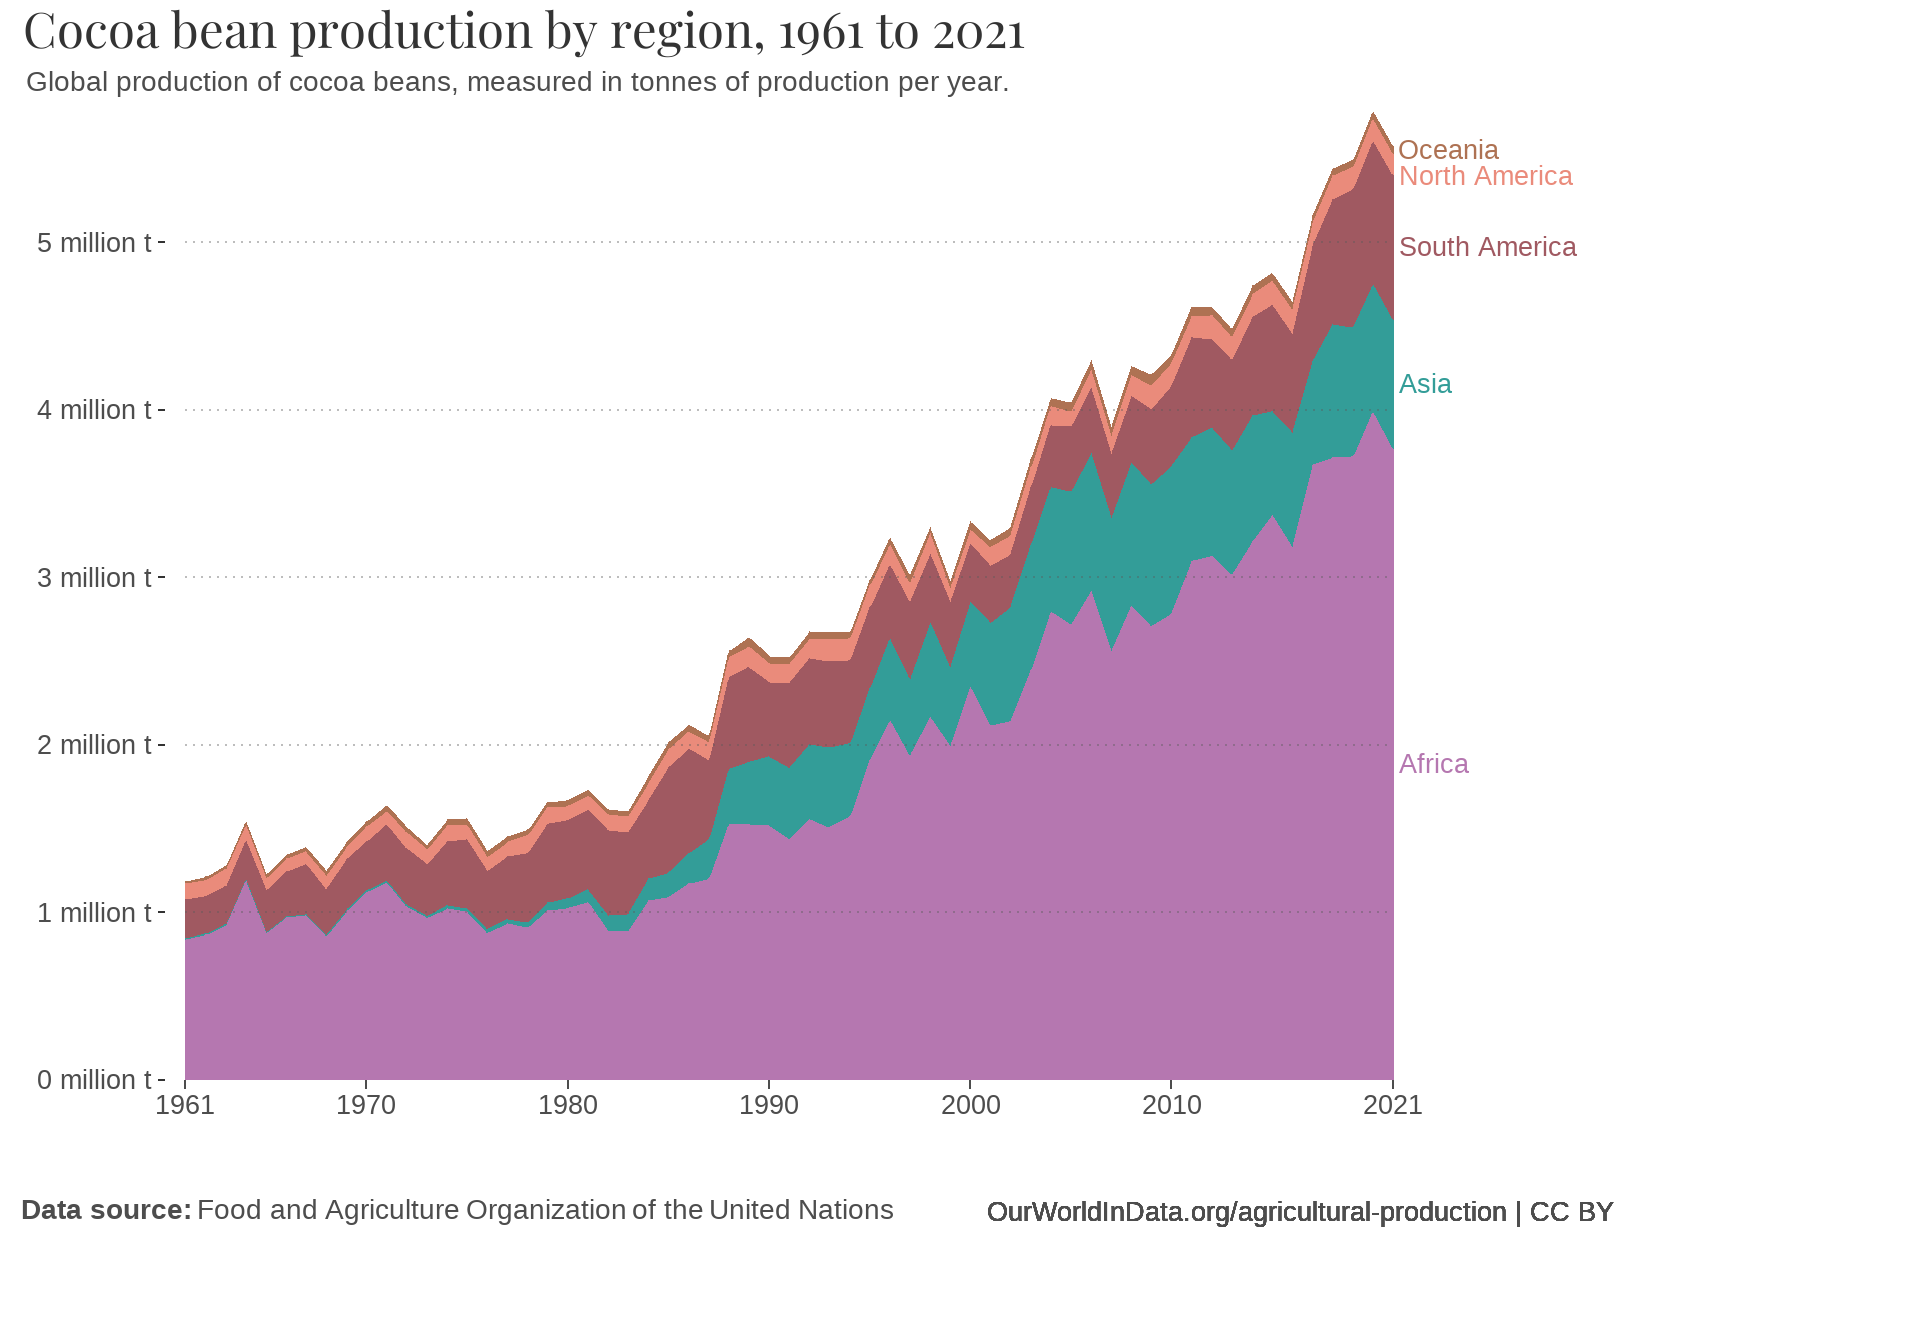
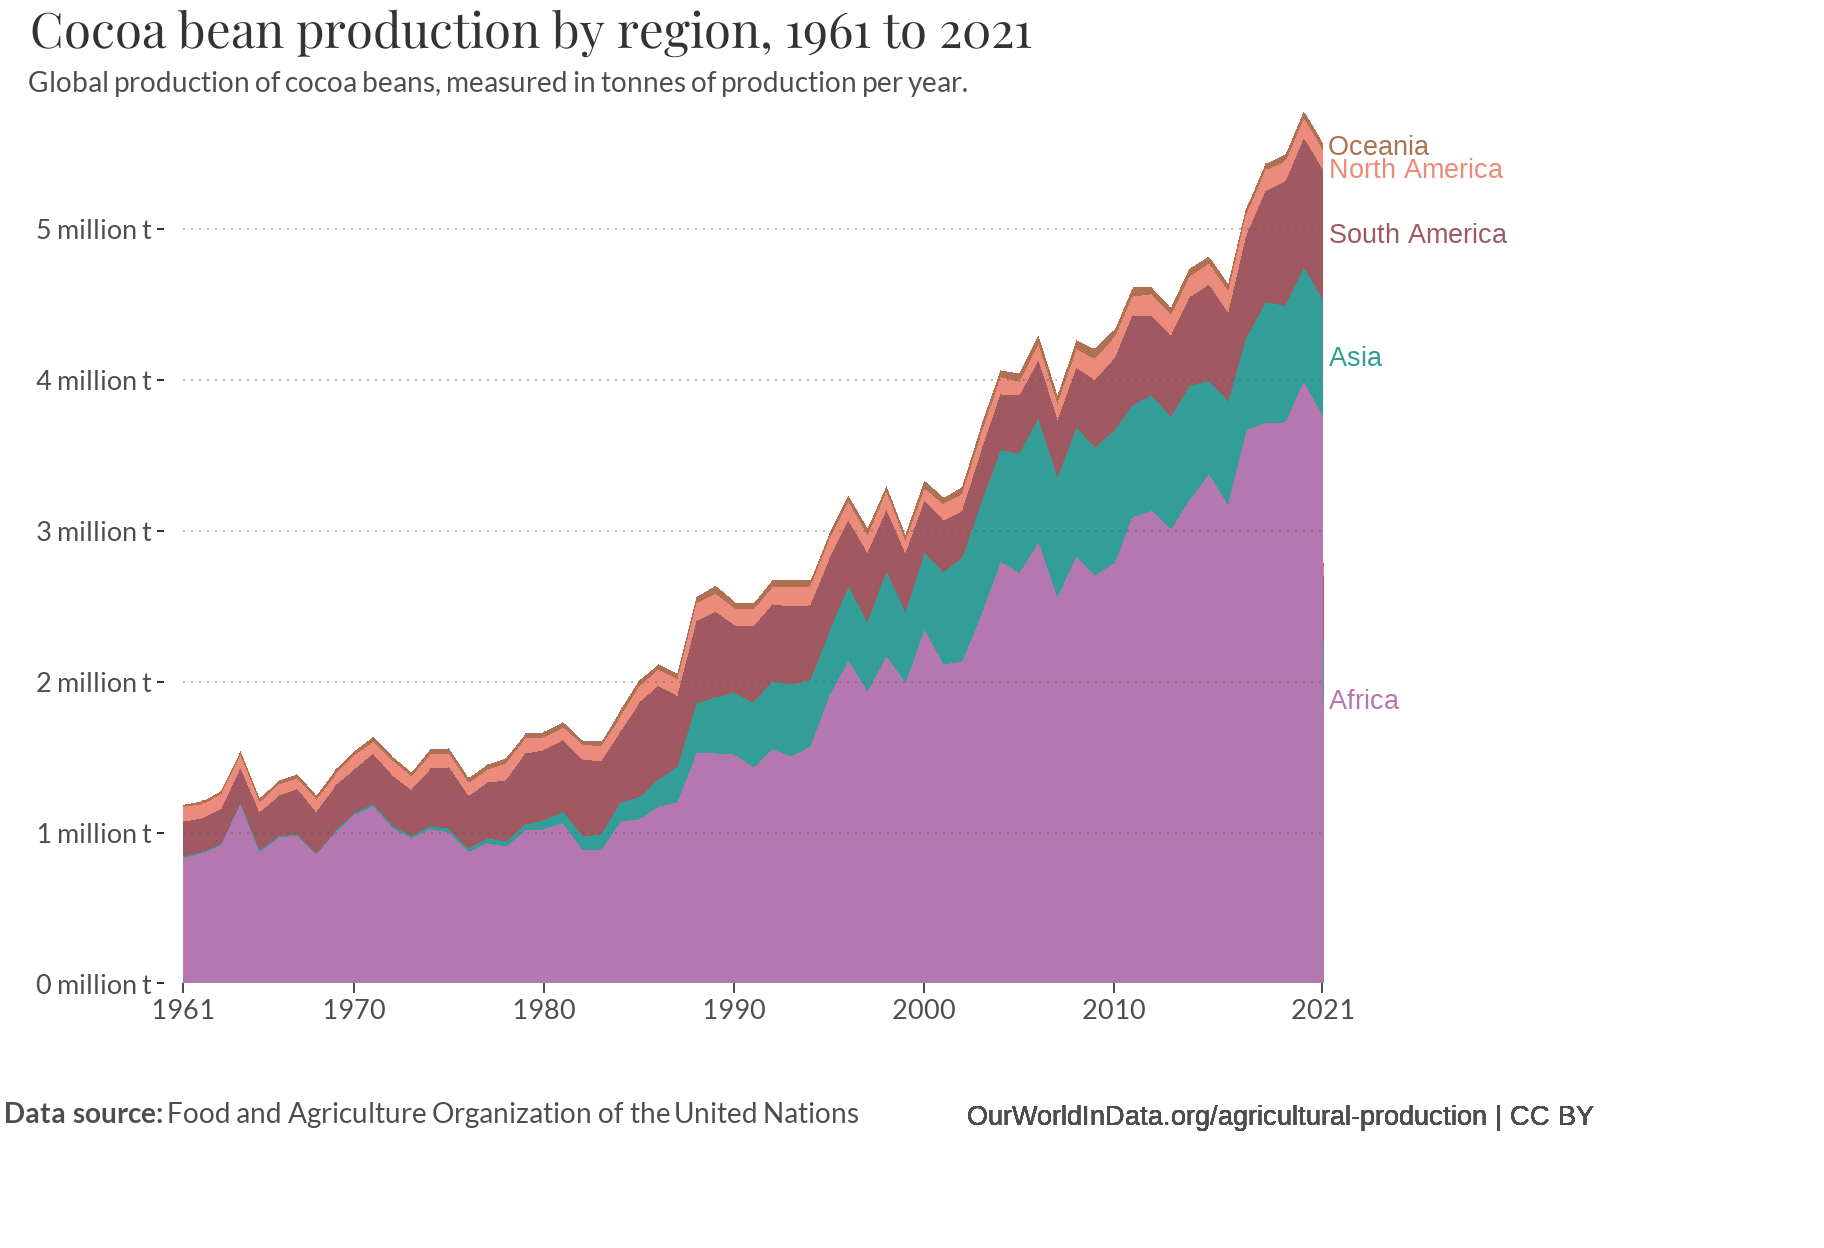
0.049

diff --git a/docs/area.html b/docs/area.html
@@ -448,7 +448,10 @@ pre > code.sourceCode > span > a:first-child::before { text-decoration: underlin
 
 
 </header><p>The chart we are set to reproduce, originally obtained from <a href="https://ourworldindata.org/">Our World in Data</a>, stands as a prime example of an area plot. Specifically focusing on <a href="https://ourworldindata.org/grapher/cocoa-beans-production-by-region">“Cocoa Bean Production by Region, 1961 to 2021,”</a> this visualization offers a thorough and comprehensive insight into the evolving trends of cocoa bean production across various regions spanning the last six decades. Through the use of the area plot format, the chart effectively captures the fluctuations and distribution of cocoa production over time, allowing viewers to discern patterns and variations in different geographical areas.</p>
-<p><a href="https://ourworldindata.org/grapher/cocoa-beans-production-by-region"><img src="img/cocoa-beans-production-by-region.png" class="img-fluid"></a></p>
+<div class="quarto-figure quarto-figure-center">
+<figure class="figure"><p><a href="https://ourworldindata.org/grapher/cocoa-beans-production-by-region"><img src="img/cocoa-beans-production-by-region.png" class="img-fluid figure-img" alt="The original graph obtained from Our World in Data"></a></p>
+<figcaption>The original graph obtained from Our World in Data</figcaption></figure>
+</div>
 <section id="story-cocoa-bean-production-by-region" class="level2"><h2 class="anchored" data-anchor-id="story-cocoa-bean-production-by-region">STORY: Cocoa bean production by region</h2>
 <p>We requested information for “Cocoa bean production by region: Africa, Asia, South America, North America, and Oceania” from ChatGTP.</p>
 <div id="exercise-joins" class="callout callout-style-default callout-important no-icon callout-titled">
@@ -519,6 +522,7 @@ pre > code.sourceCode > span > a:first-child::before { text-decoration: underlin
 <span><span class="co"># custom fonts</span></span>
 <span><span class="kw"><a href="https://rdrr.io/r/base/library.html">library</a></span><span class="op">(</span><span class="va"><a href="https://github.com/yixuan/showtext">showtext</a></span><span class="op">)</span></span>
 <span><span class="fu"><a href="https://rdrr.io/pkg/sysfonts/man/font_add_google.html">font_add_google</a></span><span class="op">(</span><span class="st">"Playfair Display"</span>, regular.wt <span class="op">=</span> <span class="fl">400</span><span class="op">)</span></span>
+<span><span class="fu"><a href="https://rdrr.io/pkg/sysfonts/man/font_add_google.html">font_add_google</a></span><span class="op">(</span><span class="st">"Lato"</span>, regular.wt <span class="op">=</span> <span class="fl">400</span><span class="op">)</span></span>
 <span><span class="fu"><a href="https://rdrr.io/pkg/showtext/man/showtext_auto.html">showtext_auto</a></span><span class="op">(</span><span class="op">)</span></span></code><button title="Copy to Clipboard" class="code-copy-button"><i class="bi"></i></button></pre></div>
 </div>
 <p><strong>DATA SOURCE:</strong> Food and Agriculture Organization of the United Nations (2023) – processed by Our World in Data (<strong>NOTE:</strong> We filtered the dataset, keeping the following world regions (entities): Africa, Asia, South America, North America, and Oceania).</p>
@@ -623,20 +627,21 @@ pre > code.sourceCode > span > a:first-child::before { text-decoration: underlin
 <span>       caption <span class="op">=</span> <span class="st">"**Data source:** Food and Agriculture Organization of the United Nations"</span>, </span>
 <span>       x <span class="op">=</span> <span class="st">"Year"</span>,</span>
 <span>       y <span class="op">=</span> <span class="st">"Cocoa Beans"</span><span class="op">)</span> <span class="op">+</span></span>
-<span>  <span class="fu"><a href="https://ggplot2.tidyverse.org/reference/theme.html">theme</a></span><span class="op">(</span>plot.margin <span class="op">=</span> <span class="fu"><a href="https://ggplot2.tidyverse.org/reference/element.html">margin</a></span><span class="op">(</span><span class="fl">5</span>, <span class="fl">115</span>, <span class="fl">45</span>, <span class="fl">15</span><span class="op">)</span>,</span>
+<span>  <span class="fu"><a href="https://ggplot2.tidyverse.org/reference/theme.html">theme</a></span><span class="op">(</span>plot.margin <span class="op">=</span> <span class="fu"><a href="https://ggplot2.tidyverse.org/reference/element.html">margin</a></span><span class="op">(</span><span class="fl">5</span>, <span class="fl">110</span>, <span class="fl">45</span>, <span class="fl">14</span><span class="op">)</span>,</span>
+<span>        text<span class="op">=</span><span class="fu"><a href="https://ggplot2.tidyverse.org/reference/element.html">element_text</a></span><span class="op">(</span>family<span class="op">=</span><span class="st">"Lato"</span><span class="op">)</span>,</span>
 <span>        panel.background <span class="op">=</span> <span class="fu"><a href="https://ggplot2.tidyverse.org/reference/element.html">element_blank</a></span><span class="op">(</span><span class="op">)</span>,</span>
 <span>    plot.title <span class="op">=</span> <span class="fu"><a href="https://ggplot2.tidyverse.org/reference/element.html">element_text</a></span><span class="op">(</span></span>
 <span>      family <span class="op">=</span> <span class="st">"Playfair Display"</span>,</span>
 <span>      color <span class="op">=</span> <span class="st">"grey20"</span>,</span>
 <span>      size <span class="op">=</span> <span class="fl">37</span>,</span>
-<span>      hjust <span class="op">=</span> <span class="op">-</span><span class="fl">0.32</span><span class="op">)</span>,</span>
+<span>      hjust <span class="op">=</span> <span class="op">-</span><span class="fl">0.37</span><span class="op">)</span>,</span>
 <span>    plot.subtitle <span class="op">=</span> <span class="fu"><a href="https://ggplot2.tidyverse.org/reference/element.html">element_text</a></span><span class="op">(</span></span>
 <span>      color <span class="op">=</span> <span class="st">"grey30"</span>,</span>
 <span>      size <span class="op">=</span> <span class="fl">21</span>,</span>
-<span>      hjust <span class="op">=</span> <span class="op">-</span><span class="fl">0.30</span><span class="op">)</span>,</span>
+<span>      hjust <span class="op">=</span> <span class="op">-</span><span class="fl">0.32</span><span class="op">)</span>,</span>
 <span>    plot.caption <span class="op">=</span> <span class="fu"><a href="https://wilkelab.org/ggtext/reference/element_markdown.html">element_markdown</a></span><span class="op">(</span></span>
 <span>      color <span class="op">=</span> <span class="st">"grey30"</span>,</span>
-<span>      size <span class="op">=</span> <span class="fl">21</span>, hjust <span class="op">=</span> <span class="op">-</span><span class="fl">0.25</span>, margin <span class="op">=</span> <span class="fu"><a href="https://ggplot2.tidyverse.org/reference/element.html">margin</a></span><span class="op">(</span>t <span class="op">=</span> <span class="fl">30</span><span class="op">)</span><span class="op">)</span>,</span>
+<span>      size <span class="op">=</span> <span class="fl">21</span>, hjust <span class="op">=</span> <span class="op">-</span><span class="fl">0.31</span>, margin <span class="op">=</span> <span class="fu"><a href="https://ggplot2.tidyverse.org/reference/element.html">margin</a></span><span class="op">(</span>t <span class="op">=</span> <span class="fl">30</span><span class="op">)</span><span class="op">)</span>,</span>
 <span>    axis.title <span class="op">=</span> <span class="fu"><a href="https://ggplot2.tidyverse.org/reference/element.html">element_blank</a></span><span class="op">(</span><span class="op">)</span>,</span>
 <span>    axis.text <span class="op">=</span> <span class="fu"><a href="https://ggplot2.tidyverse.org/reference/element.html">element_text</a></span><span class="op">(</span>color <span class="op">=</span> <span class="st">"grey30"</span>, size <span class="op">=</span> <span class="fl">20</span>, margin <span class="op">=</span> <span class="fu"><a href="https://ggplot2.tidyverse.org/reference/element.html">margin</a></span><span class="op">(</span>t <span class="op">=</span> <span class="fl">4</span><span class="op">)</span><span class="op">)</span>,</span>
 <span>    axis.ticks.length.x<span class="op">=</span><span class="fu"><a href="https://rdrr.io/r/grid/unit.html">unit</a></span><span class="op">(</span><span class="fl">0.05</span>,<span class="st">"inch"</span><span class="op">)</span>,</span>
@@ -672,10 +677,10 @@ pre > code.sourceCode > span > a:first-child::before { text-decoration: underlin
 <span>  <span class="fu"><a href="https://ggplot2.tidyverse.org/reference/scale_continuous.html">scale_y_continuous</a></span><span class="op">(</span>labels <span class="op">=</span> <span class="fu">scales</span><span class="fu">::</span><span class="fu"><a href="https://scales.r-lib.org/reference/comma.html">comma_format</a></span><span class="op">(</span>scale <span class="op">=</span> <span class="fl">1e-6</span>, suffix <span class="op">=</span> <span class="st">" million t"</span><span class="op">)</span><span class="op">)</span> <span class="op">+</span></span>
 <span>  <span class="fu"><a href="https://ggplot2.tidyverse.org/reference/coord_cartesian.html">coord_cartesian</a></span><span class="op">(</span>xlim <span class="op">=</span> <span class="fu"><a href="https://rdrr.io/r/base/c.html">c</a></span><span class="op">(</span><span class="fl">1960</span>, <span class="fl">2032</span><span class="op">)</span>, expand <span class="op">=</span> <span class="cn">FALSE</span><span class="op">)</span> <span class="op">+</span></span>
 <span>  <span class="fu"><a href="https://ggplot2.tidyverse.org/reference/geom_text.html">geom_text</a></span><span class="op">(</span><span class="fu"><a href="https://ggplot2.tidyverse.org/reference/aes.html">aes</a></span><span class="op">(</span>x <span class="op">=</span> <span class="cn">Inf</span>, y <span class="op">=</span> <span class="op">-</span><span class="cn">Inf</span>, label <span class="op">=</span> <span class="st">"OurWorldInData.org/agricultural-production | CC BY"</span><span class="op">)</span>, </span>
-<span>            size <span class="op">=</span> <span class="fl">7.2</span>, hjust <span class="op">=</span> <span class="fl">1</span>, vjust <span class="op">=</span> <span class="fl">7.5</span>, color <span class="op">=</span> <span class="st">"grey30"</span><span class="op">)</span></span></code><button title="Copy to Clipboard" class="code-copy-button"><i class="bi"></i></button></pre></div>
+<span>            size <span class="op">=</span> <span class="fl">7.2</span>, hjust <span class="op">=</span> <span class="fl">0.9</span>, vjust <span class="op">=</span> <span class="fl">7.5</span>, color <span class="op">=</span> <span class="st">"grey30"</span><span class="op">)</span></span></code><button title="Copy to Clipboard" class="code-copy-button"><i class="bi"></i></button></pre></div>
 <div class="cell-output-display page-columns page-full">
 <div class="page-columns page-full">
-<figure class="figure page-columns page-full"><p class="page-columns page-full"><img src="area_files/figure-html/unnamed-chunk-6-1.png" class="img-fluid figure-img column-page-right" width="960"></p>
+<figure class="figure page-columns page-full"><p class="page-columns page-full"><img src="area_files/figure-html/unnamed-chunk-6-1.png" class="img-fluid figure-img column-page-right" width="912"></p>
 </figure>
 </div>
 </div>
